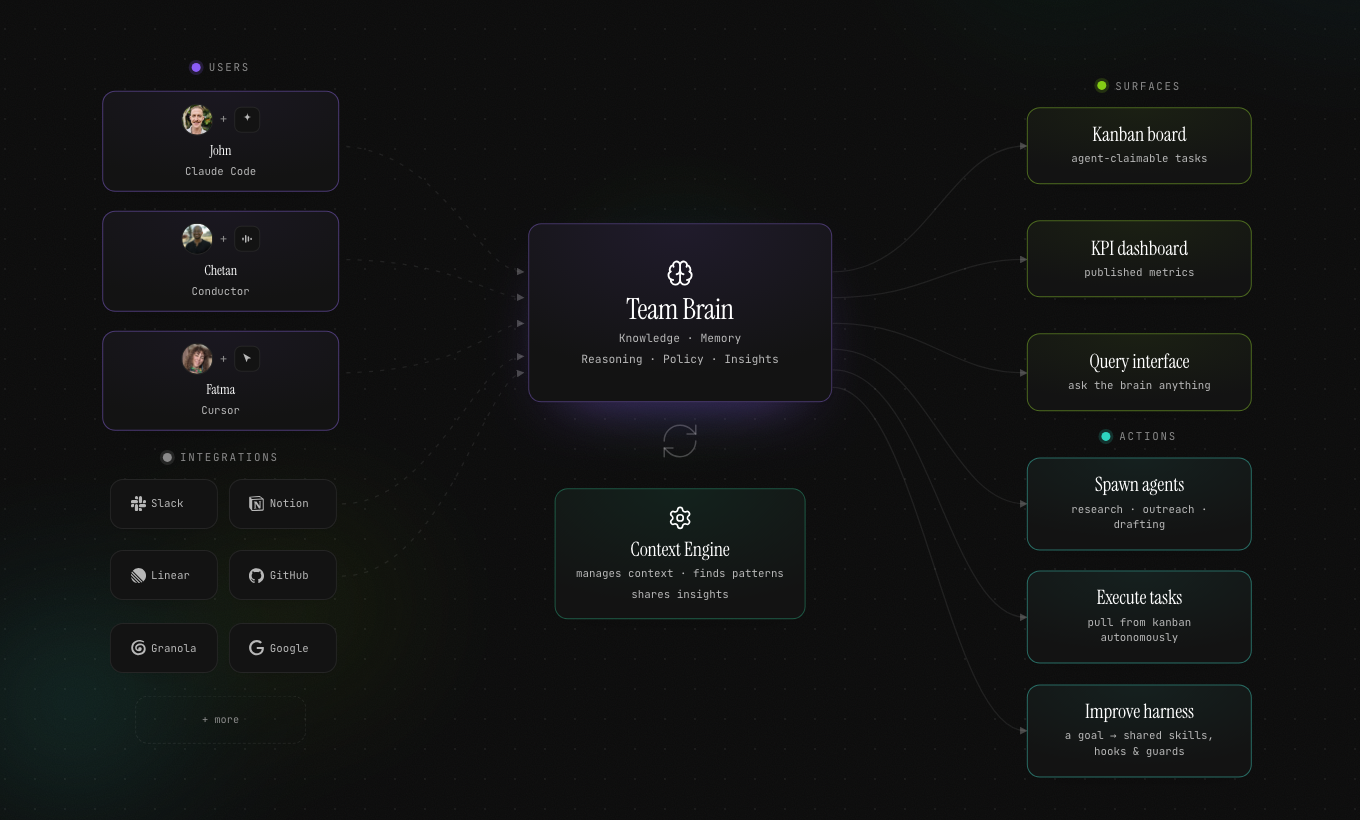
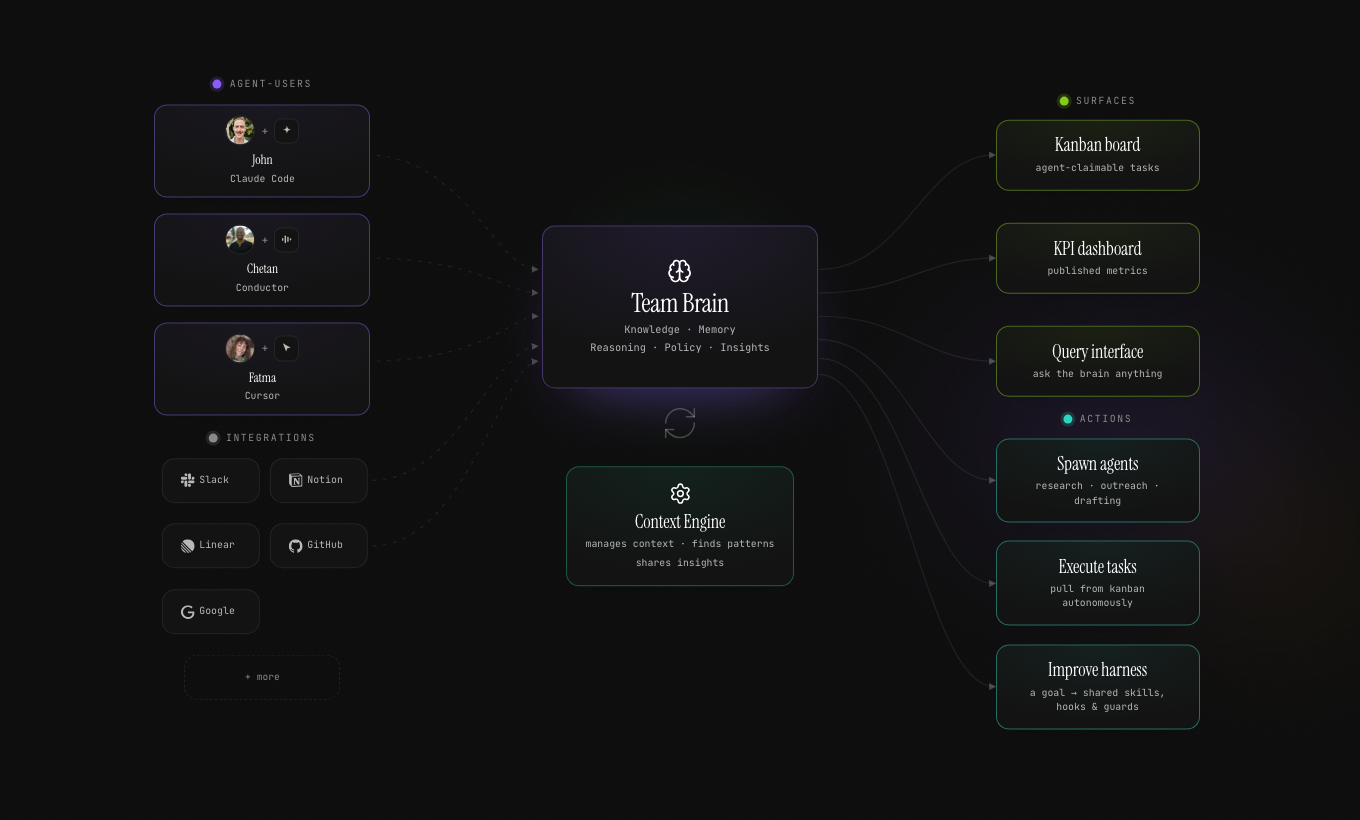
docs(readme): regenerate the schematic without Granola
Re-rendered both PNGs from the website's CollectiveBrain component (the source the live
site renders) with the Granola tile removed, at the original 1360x820 framing. The
integrations grid is now Slack/Notion, Linear/GitHub, Google + 'more' — the last row holds
one tile beside the '+ more' pill, which reads fine.

With the image no longer showing Granola, the alt text can honestly drop it too; editing
the alt alone would have made it describe an image that no longer matched.

diff --git a/README.md b/README.md
@@ -22,7 +22,7 @@ every surface, and every agent.
 
 <picture>
   <source media="(prefers-color-scheme: dark)" srcset="docs/images/team-brain-schematic-dark.png">
-  <img alt="Users working in Claude Code, Conductor and Cursor, plus integrations with Slack, Notion, Linear, GitHub, Granola and Google, all feeding one Team Brain (knowledge, memory, reasoning, policy, insights) with a Context Engine beneath it; the brain in turn drives surfaces — a kanban board, a KPI dashboard and a query interface — and actions such as spawning agents, executing tasks and improving the harness" src="docs/images/team-brain-schematic-light.png">
+  <img alt="Users working in Claude Code, Conductor and Cursor, plus integrations with Slack, Notion, Linear, GitHub and Google, all feeding one Team Brain (knowledge, memory, reasoning, policy, insights) with a Context Engine beneath it; the brain in turn drives surfaces — a kanban board, a KPI dashboard and a query interface — and actions such as spawning agents, executing tasks and improving the harness" src="docs/images/team-brain-schematic-light.png">
 </picture>
 
 **MIT licensed. Self-hosted. Private by default.** Postgres is the only required backend. Nothing
